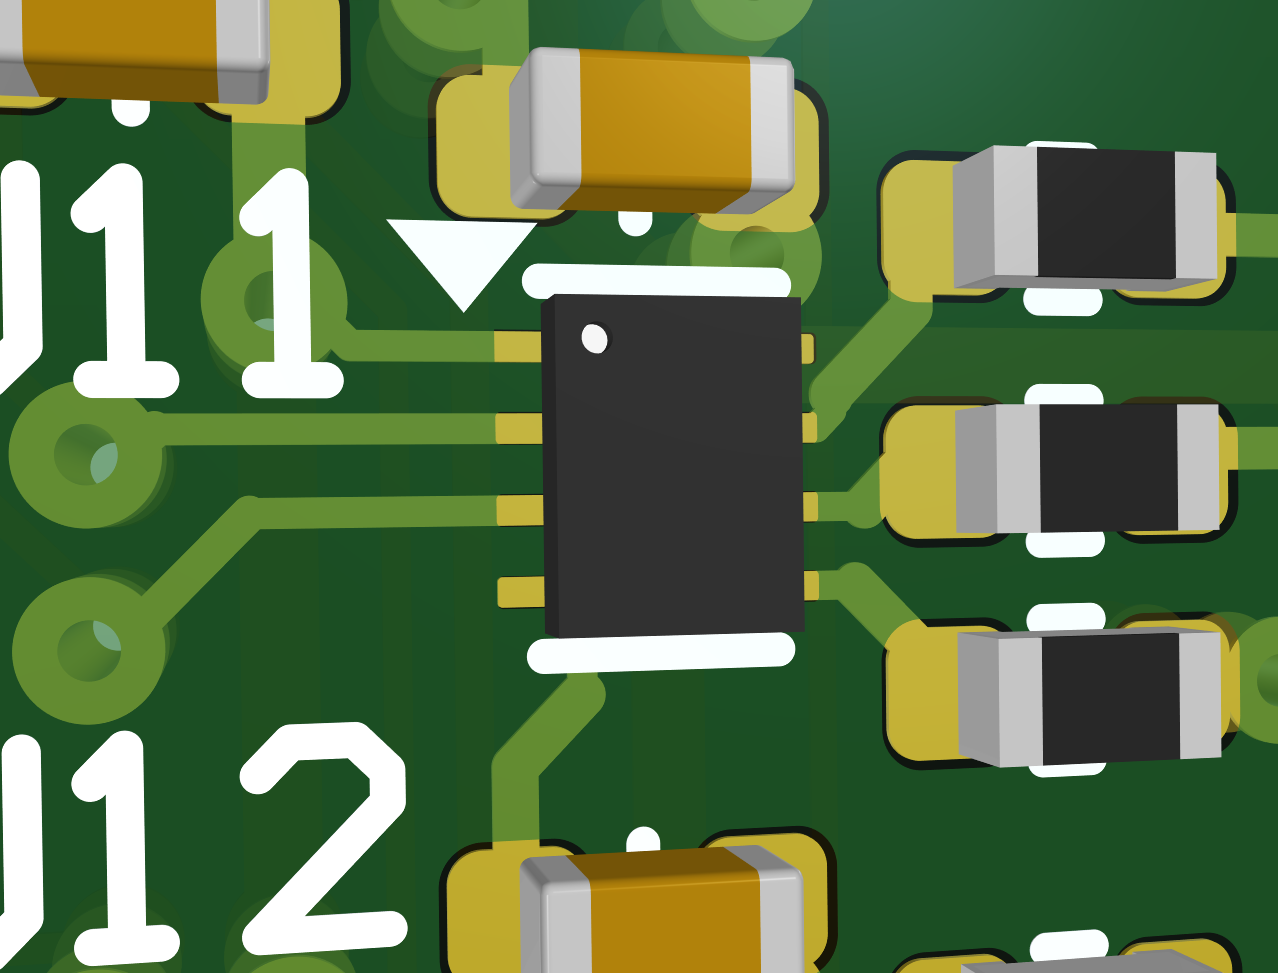
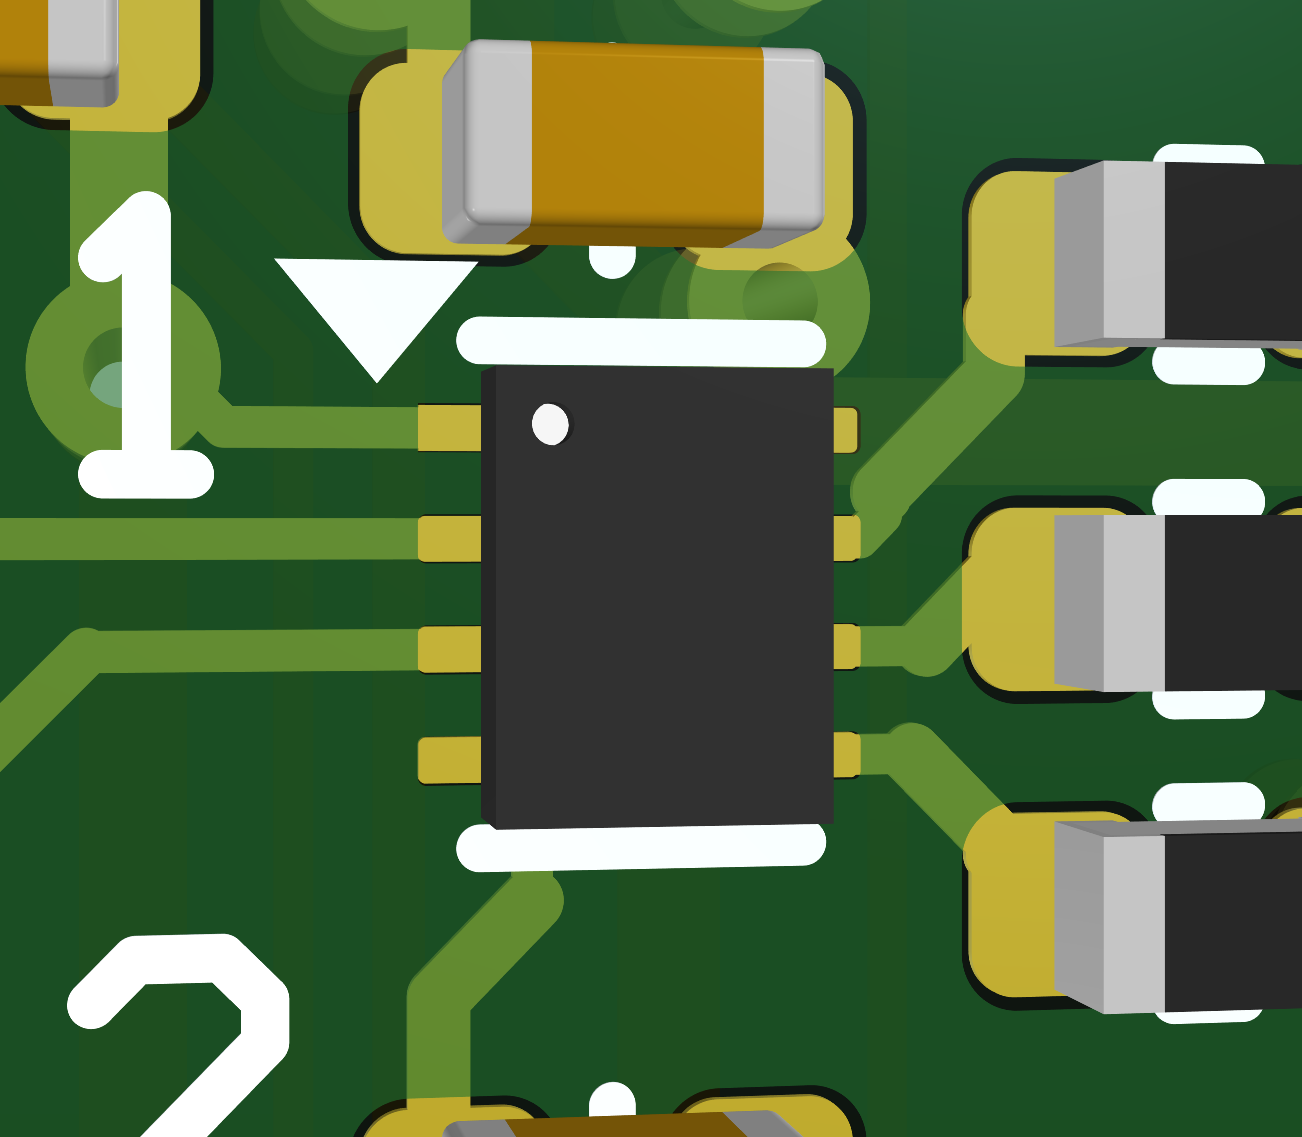
update with latest tests

diff --git a/fine_pitch_components.rst b/fine_pitch_components.rst
@@ -36,7 +36,8 @@ Pads
 	- mechanical advantage as more copper is bonded to the substrate
 #. slim the pad
 	- more distance to neighbouring pad is often better than the mechanical advantage (see solder mask chapter for more detail)
-	- rule of thumb: pad can easily be as narrow as the minimal width of the IC-Pin
+	- rule of thumb: pad can easily be as narrow as the nominal width of the IC-Pin (in Datasheet)
+	- note: too slim pads can cause alignment-problems with the surface tension of paste pulling in the wrong direction
 #. thermal pads
 	- thermals are often recommended too large in datasheet and therefor too near main pads, adjust for > .30 mm gap
 	- if metal under IC is really that large think about placing a keep-out-area on the free space to avoid putting vias there
@@ -54,16 +55,19 @@ Solder Mask
 -----------
 
 #. default solder mask expansion
-	- solder mask is more efficient in avoiding shorts than the bare substrate
+	- solder mask between pads is more efficient in avoiding shorts than the bare substrate
 	- expansion: means the mask opening around a pad is larger than the copper itself (for positive values)
 	- manufacturers like betalayout or eurocircuits demand an expansion of ~ .1 mm to compensate for layer-offsets during manufacturing
-	- offsets became very rare though, so defaulting to .04 - .06 mm is often fine (PCB Constraint)
+	- (big) offsets became very rare though, so defaulting to .04 - .06 mm is often fine (PCB Constraint)
 	- in special cases like .35mm-pitched components it helps to go as low as .01 mm to meet the minimal gap between narrow pad (see mask sliver next)
+
 #. minimum solder mask sliver (width of mask bridge between pads)
 	- larger gaps help to avoid shorting the solder paste during reflow
 	- enforcing a minimum gap of (at least) .2 mm between pads (PCB Constraint) even for .35mm-pitched components helps to avoid solder paste shorts during reflow
 	- it's beneficial for fine pitched components to reduce the mask expansion to widen the gap 
 	- it would also be possible to set the expansion to negative values (narrower solder mask with reference to copper)
+
+Note: some manufacturers are manipulating the mask layer before production. Eurocircuits seems to enforce a ~0.04 mm mask expansion. It is also the measured offset-error. Minimum bridge between pads seems to be ~ 0.2 mm, but after the enforcement.
 
 Paste Mask
 ----------
@@ -84,7 +88,7 @@ Paste Mask
 	- paste is not limited to copper area for ensuring the min width (250 um Paste and 150 um Pad work, see examples later)
 #. adapt mask to IC
 	- suggestions for packages without leads (QFN, DFN, ...) and especially for packages where the metal of the pin extends to side of the IC
-	- reflow results improve when part of the paste pad extends from under the IC (~30%)
+	- reflow results improve when part of the paste pad extends from under the IC (~25%)
 	- solder is less prone to cause shorts under the IC as it collects in a reservoir right in front of the IC when it is not needed under the IC
 #. BGA
 	- they usually don't need paste, due to the melting of the balls
@@ -95,9 +99,9 @@ Summary
 
 - default to slimmer but longer pads that optionally extend from under the IC
 - PCB-Constraint: pad neckdown of <= 100%
-- PCB-Constraint: solder mask extension can be .02 - .06 mm by default
-- PCB-Constraint: solder mask sliver (Gap) should be >= .2 mm
-- PCB-Constraint: paste mask reduction of ~ 30 % for 100 um Stencil but keep minimum width >= 5-6 x your largest paste balls (250 um for T3 Paste)
+- PCB-Constraint: solder mask extension can be .04 - .06 mm by default
+- PCB-Constraint: solder mask sliver (gap / bridge) should be >= .2 mm
+- PCB-Constraint: paste mask reduction of ~ 30 % for 100 um Stencil but keep minimum width >= 5-6 x your largest paste balls (>250 um for T3 Paste)
 - manual solder mask extension for fine-pitched components (to meet the min gap between pads)
 - manual paste pads for fine-pitched components (to meet minimum paste width)
 - custom footprints are generally a good idea
@@ -107,7 +111,7 @@ Examples
 
 - Footprints generated with the IPC compliant footprint wizard in Altium, based on parameters from datasheet
 - usage of the suggestions from above for footprints
-- optimized for T3 Paste, 100 um Steel-Stencil
+- optimized for T3 Paste (or better), 100 um Steel-Stencil
 - tested successfully with manufacturers: betalayout, eurocircuits
 - color-legend for the pictures
 	- red: copper pad
@@ -163,12 +167,13 @@ SON35 (XSON8, SOT1203)
 '''''''''''''''''''''''''''
 
 - pitch is .35 mm
-- pads are .13 x .55 mm with reduced mask expansion = .005 mm to satisfy the .2 mm gap between pads
-- paste pads are round with .25 um diameter, pad-fill = 69 %, slightly offset to allow more distance
+- pads are .145 x .55 mm with reduced mask expansion = .005 mm to satisfy the .2 mm gap between pads
+- paste pads are round with .255 um diameter, pad-fill = 64 %, slightly offset to allow more distance
 - previous recipes for desaster (shorted solder paste under IC)
 	- pads .18 x .45 mm, .03 mm expansion, paste .25 x .40 mm (Gap = .115 mm, fillratio = 123%) -> not fixable shorts under the IC
 	- pads .16 x .52 mm, .03 mm expansion, paste .22 x .30 mm (Gap = .135 mm, fillratio = 80%) -> not fixable shorts under the IC
-
+	- pads .13 x .55 mm, .005 mm expansion, paste round d=.25 (69% fillratio) -> surface tension of paste misaligned the ICs
+	
 .. image:: ./media_finePitch/SON35_custom.png
 	:width: 600
 	
